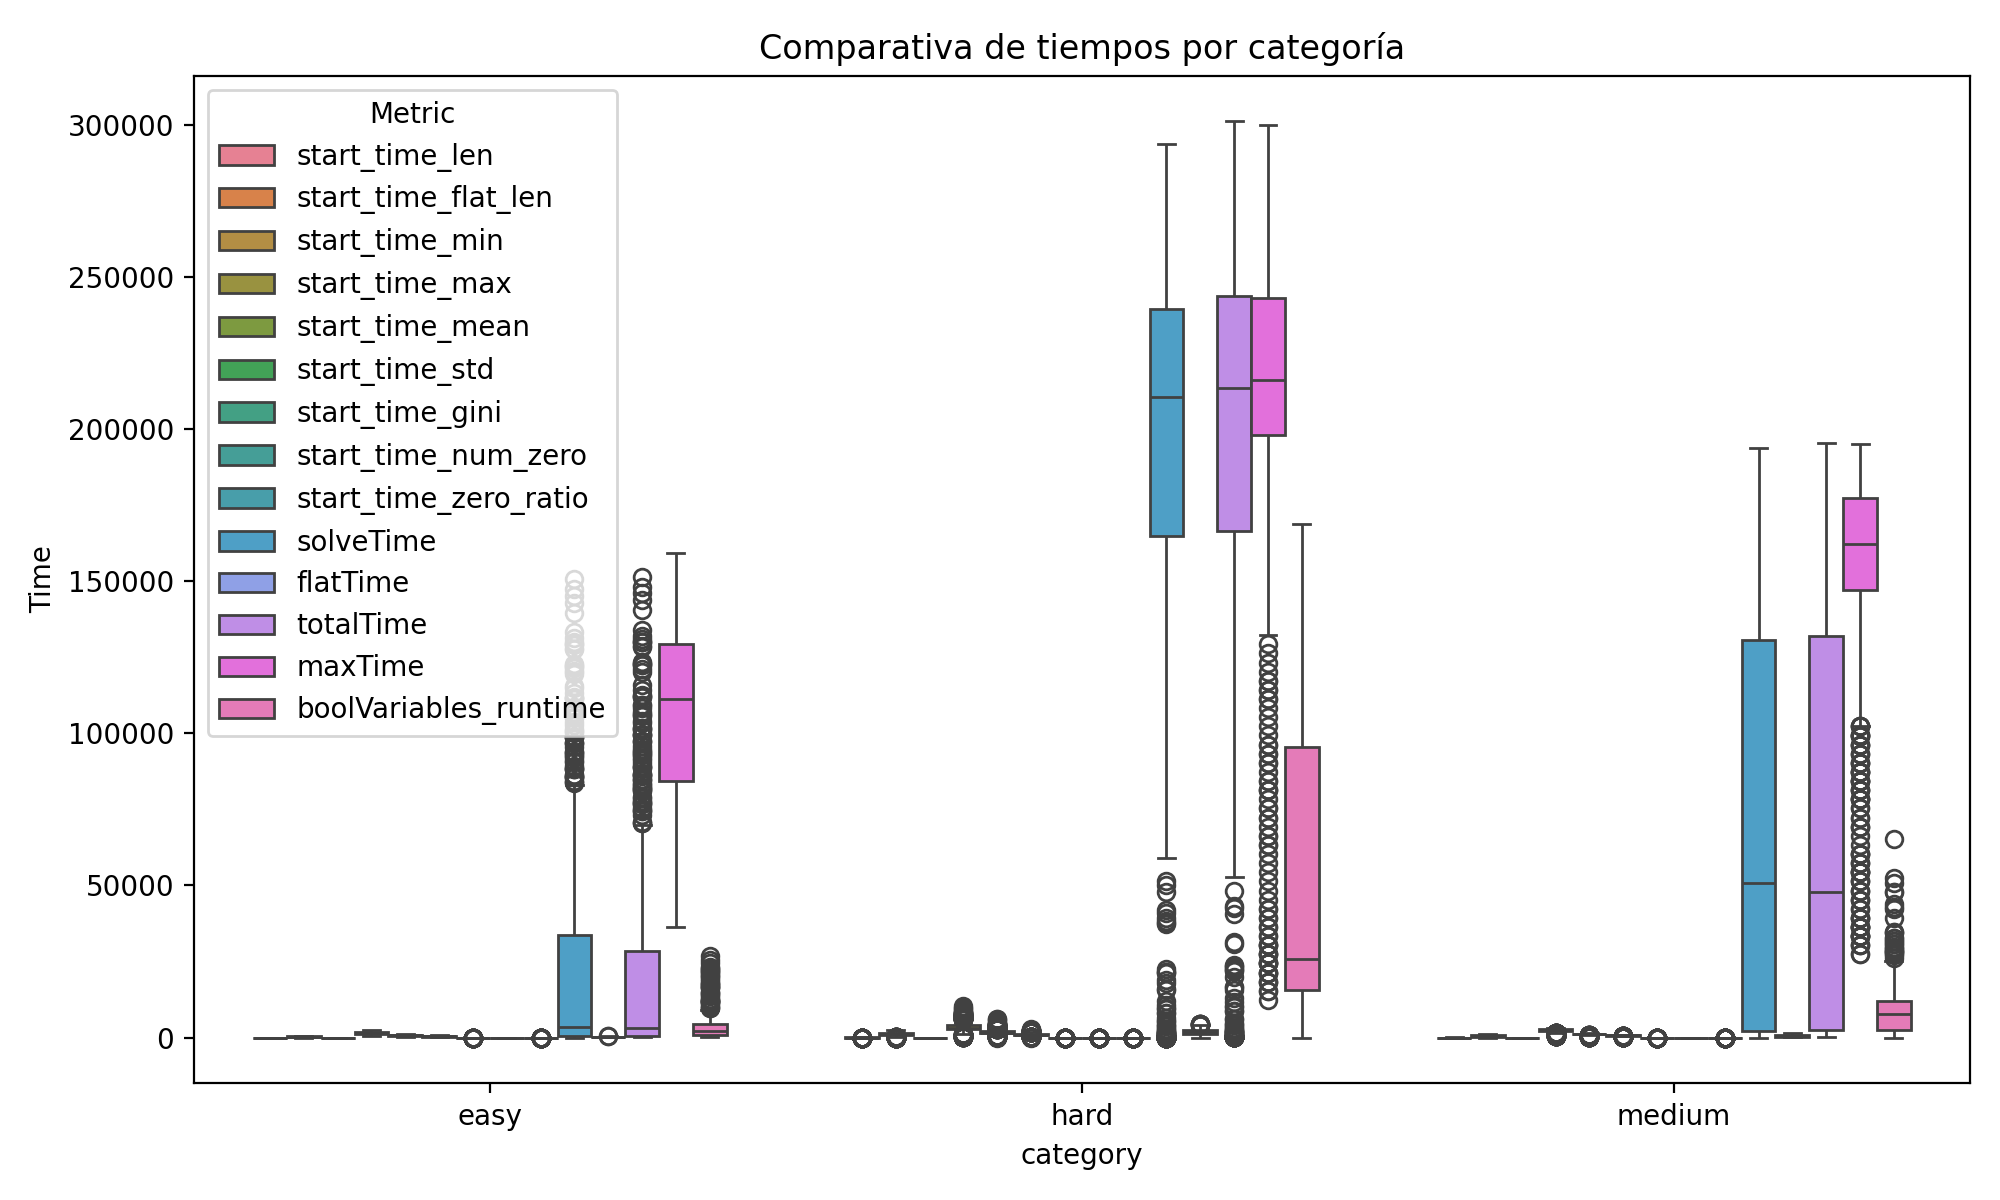
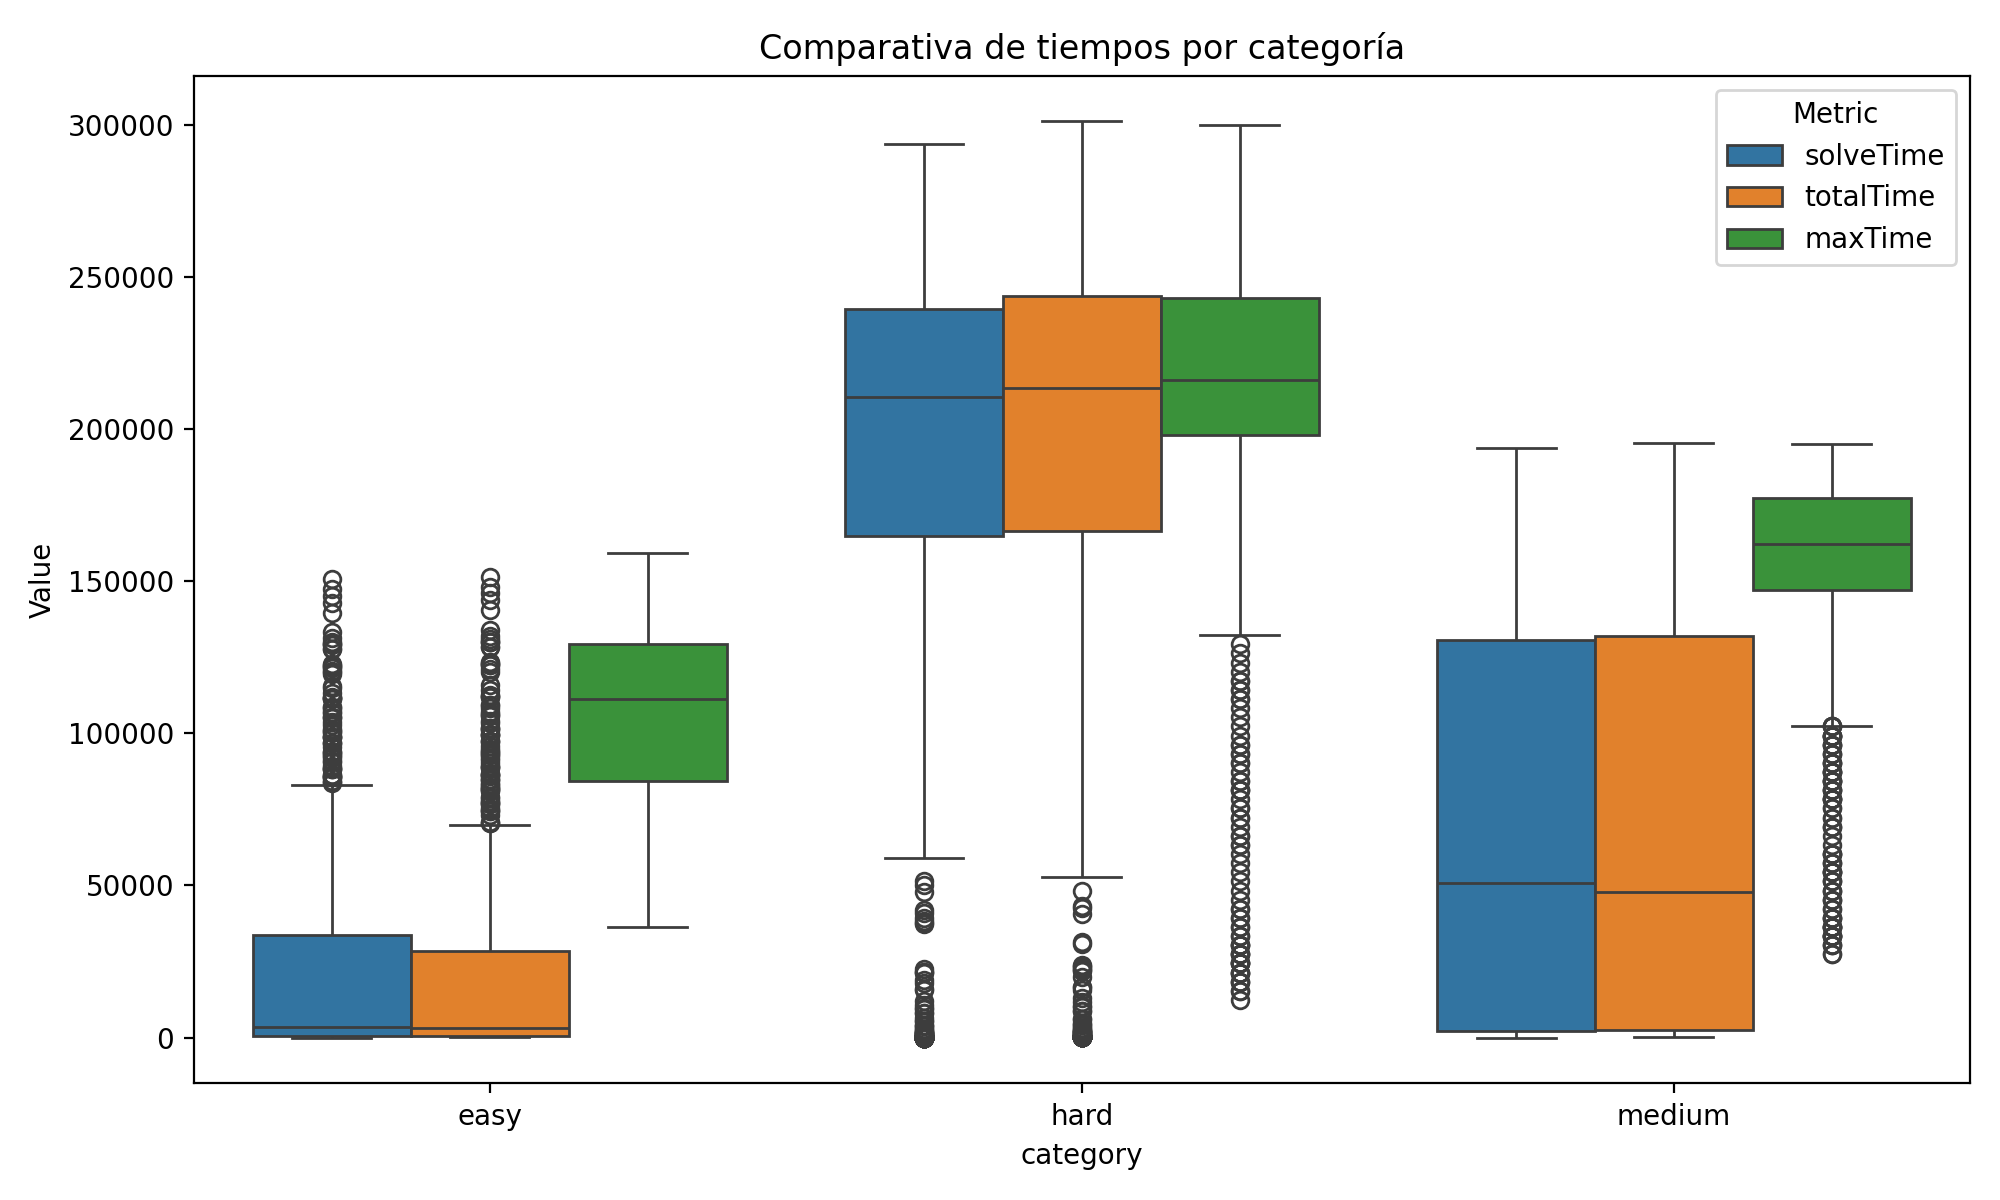
.

diff --git a/evaluate_category_quality.py b/evaluate_category_quality.py
@@ -17,11 +17,12 @@ Salidas:
 
 import os
 import re
+
+import matplotlib.pyplot as plt
 import numpy as np
 import pandas as pd
-import matplotlib.pyplot as plt
 import seaborn as sns
-from scipy.stats import kruskal, f_oneway, spearmanr
+from scipy.stats import f_oneway, kruskal, spearmanr
 
 # =========================================================
 # Funciones auxiliares
@@ -78,7 +79,7 @@ df["cat_num"] = df["category"].map(cat_map)
 # =========================================================
 # Variables clave para evaluar
 # =========================================================
-key_time_cols = [c for c in df.columns if any(x in c.lower() for x in ["solve", "time", "flattime", "totaltime"])]
+key_time_cols = [c for c in df.columns if c in ["maxTime", "totalTime", "solveTime", "is_optimal" , "timelimit_hit"]] #"makespan", "energy",
 
 # Filtramos las más relevantes y presentes
 key_time_cols = [c for c in key_time_cols if c in df.columns and np.issubdtype(df[c].dtype, np.number)]
@@ -90,16 +91,16 @@ if not key_time_cols:
 # =========================================================
 summary = []
 for col in key_time_cols:
-    stats = df.groupby("category")[col].agg(["mean", "median", "std", "min", "max", "count"])
+    stats = df.groupby("category")[col].agg(["mean"]) #, "median", "std", "min", "max", "count"
     easy, med, hard = [df.loc[df["category"]==g, col].dropna() for g in ["easy","medium","hard"]]
     fval, pval = safe_stat_test([easy, med, hard])
     rho, p_rho = spearmanr(df["cat_num"], df[col], nan_policy="omit")
-    diff_order = (stats.loc["easy","median"] < stats.loc["medium","median"] < stats.loc["hard","median"])
+    diff_order = (stats.loc["easy","mean"] < stats.loc["medium","mean"] < stats.loc["hard","mean"])
     summary.append({
         "feature": col,
-        "easy_med": stats.loc["easy","median"] if "easy" in stats.index else np.nan,
-        "medium_med": stats.loc["medium","median"] if "medium" in stats.index else np.nan,
-        "hard_med": stats.loc["hard","median"] if "hard" in stats.index else np.nan,
+        "easy_med": stats.loc["easy","mean"] if "easy" in stats.index else np.nan,
+        "medium_med": stats.loc["medium","mean"] if "medium" in stats.index else np.nan,
+        "hard_med": stats.loc["hard","mean"] if "hard" in stats.index else np.nan,
         "anova_p": pval,
         "spearman_r": rho,
         "increasing_order": diff_order
@@ -127,8 +128,8 @@ res = pd.DataFrame(res).sort_values("anova_p").reset_index(drop=True)
 # Gráficos comparativos de tiempos
 # =========================================================
 plt.figure(figsize=(10,6))
-melted = df.melt(id_vars=["category"], value_vars=key_time_cols, var_name="Metric", value_name="Time")
-sns.boxplot(data=melted, x="category", y="Time", hue="Metric")
+melted = df.melt(id_vars=["category"], value_vars=key_time_cols, var_name="Metric", value_name="Value")
+sns.boxplot(data=melted, x="category", y="Value", hue="Metric")
 plt.title("Comparativa de tiempos por categoría")
 plt.tight_layout()
 plt.savefig(os.path.join(OUT_DIR, "group_differences.png"), dpi=200)
